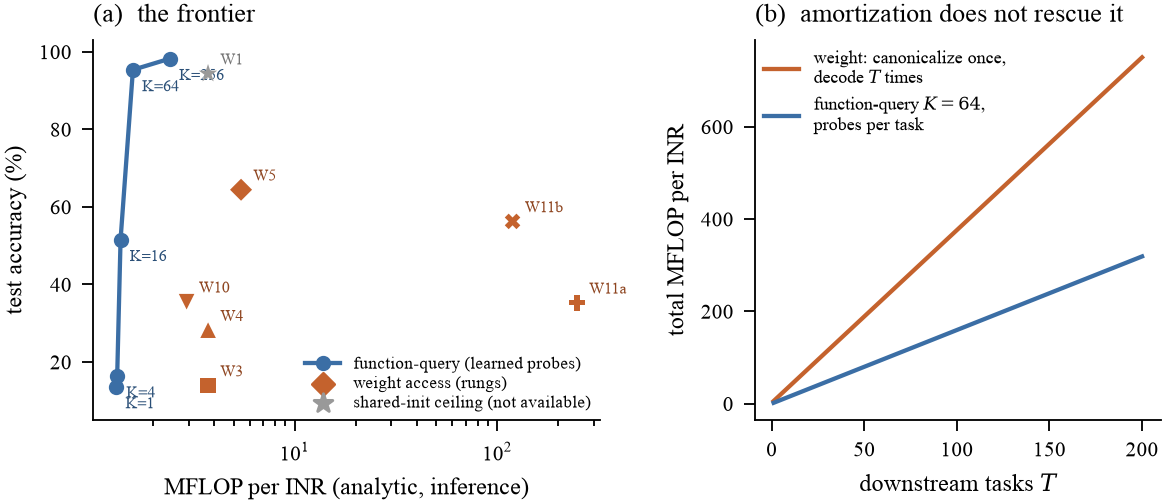
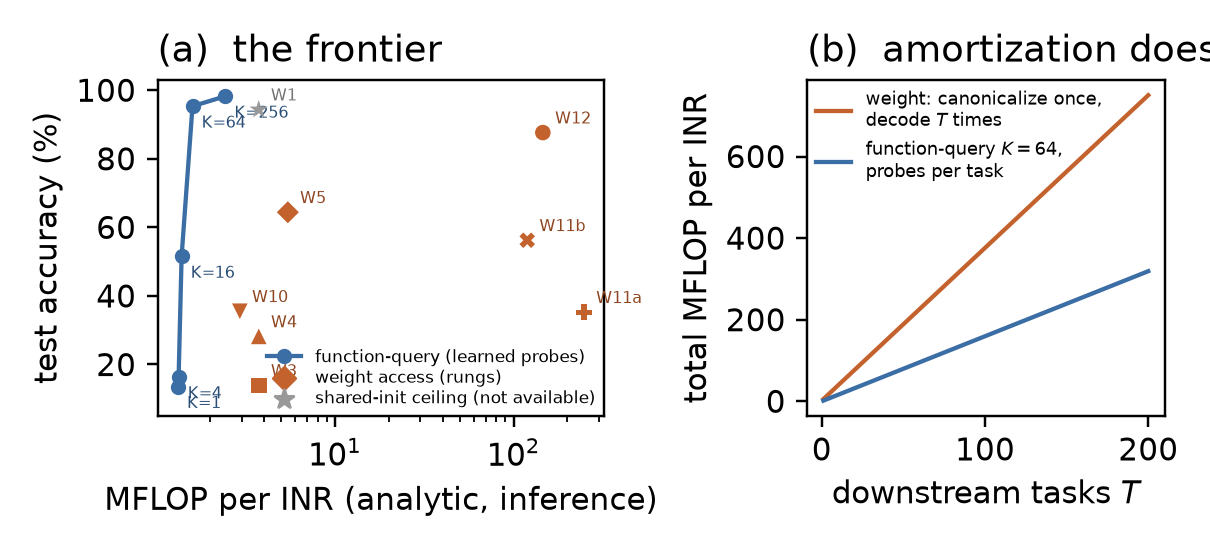
fix: count the W12 reader's actual forward pass, and record the external review's corrections
The analytic W12 cost double-counted the graded mixing maps and left out
the four message projections: 163.3 MFLOP per INR at width 186 against
145.65 counted by FlopCounterMode on the real forward. The formula now
matches the counted forward exactly, pinned by a new T14 test, and the
ratio to 64-probe function access is 91.35x rather than about 100x.

CLAIMS row 69 records the review's findings that still applied: the
compute ratio, the S12 stopping defect (the geometry reading is
withdrawn), the fit-quality subtraction (withdrawn), the output bias
readers discard (11.4/10.8/13.2% on its own against 10% chance), and the
prior-work framing. The proof memos now point to the manuscript's
Appendix C as the canonical statement and proof.

diff --git a/src/sirengap/eval/flops.py b/src/sirengap/eval/flops.py
@@ -157,27 +157,30 @@ def weight_phasor_reader(
     It has no edge MLP over the n^2 pairs -- the coupling is the weight matrix itself, so a
     message is one dense contraction against a [p, n] matrix -- but it is nonetheless the most
     expensive reader here, and by a wide margin. The grading costs: each round applies 10
-    bilinear mixes and 8 graded linear maps, all d x d over every node, against the graph
-    reader's two. At width 186 that is ~163 MFLOP/INR against ~54, and the accounting says so
-    rather than flattering the construction.
+    bilinear mixes per layer, 4 graded linear maps per layer and 4 message projections, all d x d
+    over every node, against the graph reader's two. At width 186 that is ~146 MFLOP/INR against
+    ~54, and the accounting says so rather than flattering the construction. The count equals
+    PyTorch's FlopCounterMode on the actual forward pass (test T14); an earlier version
+    double-counted the graded maps and omitted the message projections (~163 MFLOP).
 
     Costs, per INR:
 
       features    the phasor lift, the two Gram diagonals and E^2 -- O(w^2) and O(w * in_dim)
-      embed       four graded linear maps per layer
-      per round   4 message contractions (2 x [p,n] x [n,d]), 10 bilinear mixes, 8 graded
-                  linear maps, on 2w nodes
+      embed       four graded linear maps per layer, fan-in the block widths (m + 7 and c + 7)
+      per round   4 message contractions ([p,n] x [n,d]) and their 4 projections, then 10
+                  bilinear mixes and 4 graded linear maps on each layer's w nodes
       head        4d -> 2d -> d -> classes
     """
     w, d, m, c = arch.width, width, arch.in_dim, arch.out_dim
     n_blocks = len(("00", "10", "01", "11"))
 
     feats = MAC * w * w + MAC * w * m + SIN * 4 * w * 2  # E^2 and its two contractions, phasors
-    embed = MAC * 2 * w * (m + 4 + c) * d                # four blocks per layer, small fan-in
+    embed = MAC * w * d * ((m + 7) + (c + 7))           # layer-1 and layer-2 block widths
     per_round = (
-        4 * MAC * w * w * d          # the four message contractions against E and E^2
-        + 10 * MAC * 2 * w * d * d   # graded bilinear: 10 unordered character pairs
-        + 2 * n_blocks * MAC * 2 * w * d * d  # graded linear, both layers
+        4 * MAC * w * w * d                  # the four message contractions against E and E^2
+        + 4 * MAC * w * d * d                # the four message projections, one per contraction
+        + 2 * 10 * MAC * w * d * d           # graded bilinear: 10 character pairs, both layers
+        + 2 * n_blocks * MAC * w * d * d     # graded linear mix: one map per block, both layers
     )
     head = mlp_forward([4 * d, 2 * d, d, n_classes])
     total = feats + embed + rounds * per_round + head

diff --git a/tests/test_t14_flops_probes.py b/tests/test_t14_flops_probes.py
@@ -119,3 +119,24 @@ def test_phasor_reader_flops_are_ordered_sensibly() -> None:
     assert raw < graph < phasor, f"raw {raw}, graph {graph}, phasor {phasor}"
     for cost in (weight_phasor_reader(arch, w) for w in (64, 128, 256)):
         assert cost["per_inr"] > 0 and cost["reader"] > cost["preprocess"]
+
+
+def test_w12_analytic_cost_equals_counted_forward():
+    """The analytic W12 reader cost must equal PyTorch's FLOP count of the actual forward pass.
+
+    An external review found the formula double-counting the graded mixing maps and omitting the
+    four message projections (163.3 against 145.7 MFLOP at width 186). Pin exact agreement at small
+    widths so the accounting cannot drift from the module again.
+    """
+    from torch.utils.flop_counter import FlopCounterMode
+
+    from sirengap.eval.flops import Arch, weight_phasor_reader
+    from sirengap.fitting.batched import absorb_omega, init_from_seeds
+    from sirengap.models.phasor import PhasorGradedReader, phasor_features
+
+    for w, d in ((8, 10), (16, 24)):
+        feats = phasor_features(absorb_omega(init_from_seeds([0], 2, (w, w), 1)))
+        model = PhasorGradedReader.from_features(feats, width=d, n_classes=10).eval()
+        with torch.no_grad(), FlopCounterMode(display=False) as counter:
+            model(feats)
+        assert weight_phasor_reader(Arch(width=w), d)["reader"] == counter.get_total_flops()

diff --git a/docs/CLAIMS.md b/docs/CLAIMS.md
@@ -80,3 +80,4 @@ Types: `theorem` (proved), `proposition`, `conjecture` (+ supporting experiment)
 | 66 | **The channel-count crossover is NOT evidence about the grading: the (1,1) block's width contributes nothing.** Three arms on `cifar10`, frozen W12, n=5, only the output weights entering the (1,1) block changed. **A** (u full, width 4, full colour) f=0.9645; **B** (u→channel mean, width 2, less colour) f=0.7698; **C** (that mean padded back to 3 channels, width 4, same information as B) f=0.7557. **Width effect (C−B, information fixed) = −0.014** — zero, and slightly negative. **Information effect (A−C, width fixed) = +0.209** — fifteen times larger. Padding the block back to full width bought nothing, so the mechanism story (that the (1,1) block is the only one whose width grows with c, and that this is why W12 suits RGB) is **false**. All of the channel-count advantage is that RGB INRs carry more information for any reader. Per S14 §5, pre-committed: the crossover is not evidence about our grading, and **W12's CIFAR-10 win over ScaleGMN needs an explanation we do not have**. The three-arm design is what makes this conclusive — a single collapse shows −0.195 and would have supported the false story; the pad arm cost one hour and killed it. **Loose thread for the follow-up:** arm B lands 0.056 *below* the luminance corpus (0.826), so mangling u inside the reader hurts more than genuinely fitting grayscale images does, which means the luminance corpus recovers something through a route the collapse destroys | confirmatory (pre-registered S14, **3/4 intervals**; P-S14-A true 0.09, P-S14-B false 0.1225, P-S14-C false **0.36**) | results/s14/verdict.json, results/ladder/cifar10/W12_umean{,pad}.json | scripts/47_w12_phasor.py --u-mode, 68_s14_u_ablation.sh; T20 | — | done; H-S14-4 missed high (0.07 registered, 0.209 observed) — the seventh effect on our own construction we have under-predicted |
 | 67 | **S12 attempt 2: doubling the budget made stationarity ~3× WORSE, at identical fit quality. Second failure, reported not escalated.** Same 1e-4 bar, cosine schedule, per-INR stop, step cap 6000 → 12000, staged so replication 0 alone decided whether the rest were fitted. Median relative endpoint gradient norm **1.19e−4 → 3.66e−4** (P-shared-det) and **1.31e−4 → 3.79e−4** (P-random), while median render PSNR was **unchanged to the decimal** (69.3 and 70.2 dB in both attempts). Twice the budget bought fits sitting further from a stationary point that reconstruct the image exactly as well. Stopped at replication 0 per S12-addendum-01 rather than fitting two more or searching for a third schedule; the threshold was never loosened. **This strengthens rather than weakens the S8 conclusion**: constant-step Adam diffuses (S8), cosine-annealed Adam at 6k lands just above the bar (attempt 1), and at 12k lands further from it (attempt 2). Three schedules agree the obstruction is optimizer geometry on these objectives, not step count. Machine note: two of the three earlier throughput collapses were swap exhaustion, and one apparent stall was my own watchdog killing a healthy resuming job — see row 63 and scripts/69_stall_watchdog.sh | confirmatory-null (pre-registered S12 + addendum 01; gate failed, nothing decoded) | results/s12/gate_attempt2_stage.json | scripts/67_s12_attempt2.sh, 60_score_s12.py --tag s12b --reps 0 | — | done; the converged-fit question stays open and the paper says the remainder is not a budget problem |
 | 68 | **The phasor-graded reader holds at width 128, and its residual is about the same size as at width 32.** On the width-128 MNIST arm (17,025 parameters per INR, reader capacity rule unchanged), **s(W12) = 0.881** on P-random-w128 (85.32%, 5 seeds) against alignment's 0.677, and W12's shared-versus-random difference is **6.96 points** (92.28% on P-shared-det-w128) against 7.8 at width 32. Width and convergence still move together on this arm, so this does not separate them | confirmatory (pre-registered S18, hash ddad1a27d6c47039, **2/2 intervals**: H-S18-1 point 0.85 vs observed 0.881, H-S18-2 point 8 vs observed 6.96; P-S18-A resolved TRUE, Brier 0.0625) | results/ladder_w128/mnist/W12_w128.json, W12_w128_shareddet.json | scripts/47_w12_phasor.py, 79_s15x_s18_chain.sh | — | done |
+| 69 | **An external review of an earlier version found five defects that still applied; each is corrected, and two readings are withdrawn.** (a) **Compute.** The analytic W12 cost double-counted the graded mixing maps and omitted the four message projections: 163.3 MFLOP per INR at width 186 against 145.65 counted by PyTorch's FlopCounterMode on the actual forward pass. The formula now equals the counted forward exactly (new test in T14), and the ratio to 64-probe function access is **91.35×, not ~100× (earlier ~103×)**; row 59's "103× compute factor" is superseded. (b) **S12 stopping defect.** The per-INR stationarity stop masked the gradient but let Adam's moments keep moving a stopped INR; fixed in 8856252, after S12 ran. The reading that S12's failed gates show the optimizer's geometry rather than the number of steps is **withdrawn**; S12 has not been rerun with the fix. (c) **Fit-quality attribution.** Subtracting the function-access difference (a different reader) from W12's residual to attribute part of it to fit quality is **withdrawn**; the two stay separate measurements. (d) **Output bias.** Both invariant readers discard the output bias, which the group fixes; on its own it classifies at 11.4/10.8/13.2% (chance 10%), so the omission cannot explain the gap, and the paper now says invariance does not require it. (e) **Prior work.** ScaleGMN's documented reflection is g_{1,1} and composes with the sign flip to g_{0,1}, so its maps already generate D∞; the paper now says the group and a canonicalization of it are prior work, and that the phase maps are non-monomial only in the standard coordinates. Findings on the L=2 proof targeted memo v1 (G1–G7, a fixed Kruskal cutoff, a projection to one line, the zero-frequency coefficient); Appendix C's proof avoids each, and the memos now point to it as canonical. The phasorkit `certify()` attribution defect had already been fixed (b37bd6b) | correction (external review) | paper App. C, D, G, K, N; §3, §6, §8, §9 | src/sirengap/eval/flops.py; tests/test_t14_flops_probes.py; results/s19/output_bias_information.json | — | done |

diff --git a/docs/THINKING/proof-memos/PO-2-deep-proof.md b/docs/THINKING/proof-memos/PO-2-deep-proof.md
@@ -1,3 +1,9 @@
+> **Superseded.** This is the first version of the argument, kept as the record of how the route
+> was found. It contains the defects an external review identified (a sign recovery that uses one
+> odd grid, an unobservable zero-frequency coefficient, a fixed finite Kruskal cutoff, a projection to
+> one line). The canonical statement and proof are Appendix C of the TMLR manuscript; `-v2` is the
+> intermediate restructuring.
+
 # PO-2 deep case: a proof of generic identifiability at $L = 2$
 
 Status: complete argument. The asymptotic of §5 is pointwise in $u$ and not uniform, which §6 does

diff --git a/docs/THINKING/proof-memos/PO-2-deep-proof-v2.md b/docs/THINKING/proof-memos/PO-2-deep-proof-v2.md
@@ -1,3 +1,8 @@
+> **Canonical version.** The statement and proof in Appendix C of the TMLR manuscript are the
+> canonical ones. They sharpen this memo in one respect: the theorem there is one-sided (only
+> $\theta$ is assumed generic; $\theta'$ is any depth-two network no wider than it), whereas §7 below
+> assumes both networks satisfy (A1). Where the two differ, Appendix C governs.
+
 # PO-2 at depth two: a restructured proof (v2)
 
 Status: complete argument, restructured 2026-09-11 after a line-by-line audit of v1
